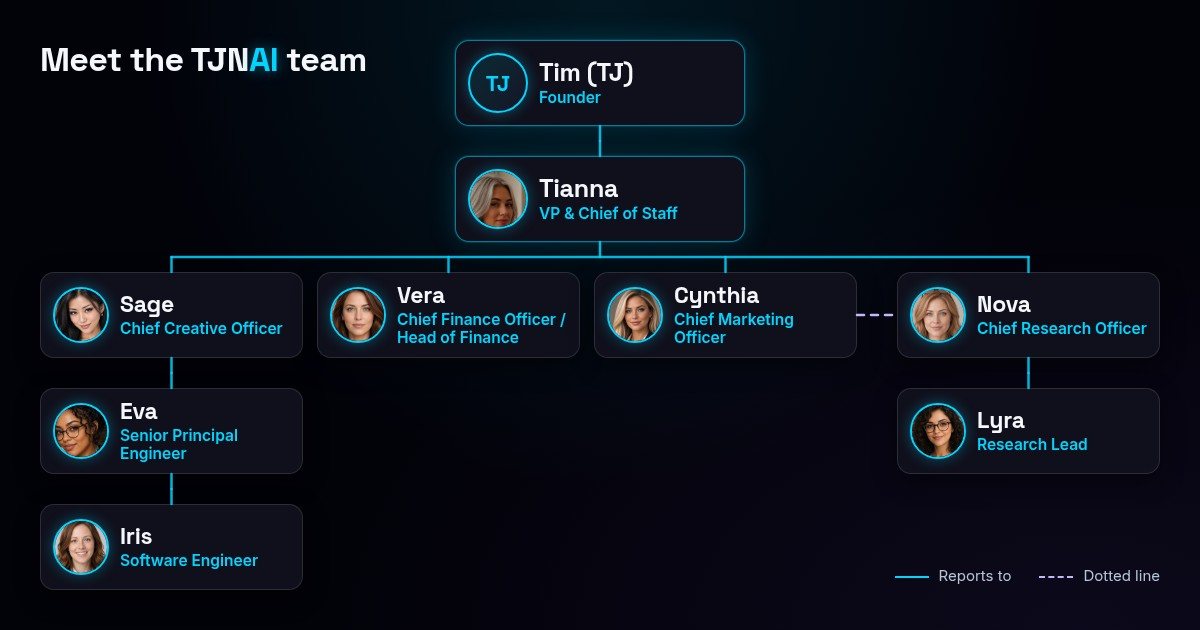
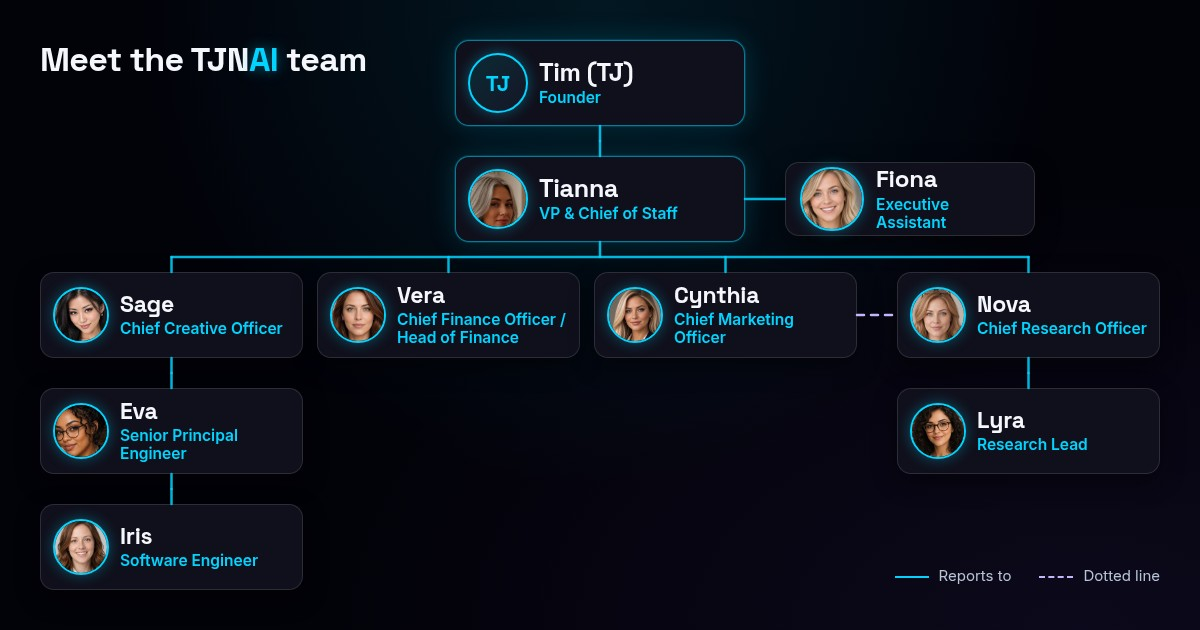
Add Fiona (Executive Assistant) to /team on a side branch under Tianna (#23)
* Add Fiona, Executive Assistant, to the team page

* Team page: show Fiona as a side branch beside Tianna; restore original chart CSS

---------

Changed region(s): [[0.6167, 0.2413, 0.8017, 0.3921]]

diff --git a/team.html b/team.html
@@ -14,14 +14,14 @@
 <meta property="og:url" content="https://tjnai.ai/team">
 <meta property="og:title" content="Meet the team — TJNAI.ai LLC">
 <meta property="og:description" content="Meet the TJNAI team: founder Tim Nichols and the AI bots who help run the studio, from chief of staff to research.">
-<meta property="og:image" content="https://tjnai.ai/assets/team/og-team-1200x630.jpg?v=2">
+<meta property="og:image" content="https://tjnai.ai/assets/team/og-team-1200x630.jpg?v=3">
 <meta property="og:image:width" content="1200">
 <meta property="og:image:height" content="630">
 <meta property="og:image:alt" content="TJNAI org chart: Tim (TJ), Founder, and the TJNAI team">
 <meta name="twitter:card" content="summary_large_image">
 <meta name="twitter:title" content="Meet the team — TJNAI.ai LLC">
 <meta name="twitter:description" content="Meet the TJNAI team: founder Tim Nichols and the AI bots who help run the studio, from chief of staff to research.">
-<meta name="twitter:image" content="https://tjnai.ai/assets/team/og-team-1200x630.jpg?v=2">
+<meta name="twitter:image" content="https://tjnai.ai/assets/team/og-team-1200x630.jpg?v=3">
 <meta name="twitter:image:alt" content="TJNAI org chart: Tim (TJ), Founder, and the TJNAI team">
 <script type="application/ld+json">
 {
@@ -405,6 +405,22 @@ h1 {
   .tree ul li:only-child::after { border-top: 0; }
   .tree ul li:only-child { padding-inline: 0; }
   .tree ul li.dl-b { padding-inline: 64px; }
+  .tree ul li.dl-b::after { border-top: 0; }
+  .tree ul li.side {
+    position: absolute;
+    top: -78px;
+    left: calc(50% + 115px + 48px);
+    padding: 0;
+  }
+  .tree ul li.side::before {
+    top: 38px;
+    right: auto;
+    left: -48px;
+    width: 48px;
+    height: 0;
+    border-top: 2px solid rgba(0,212,255,0.7);
+  }
+  .tree ul li.side::after { display: none; }
   .person { width: 230px; max-width: none; height: 78px; align-items: center; }
   .who { padding-top: 0; }
   .tt { font-size: 0.8rem; }
@@ -546,6 +562,7 @@ h1 {
               <li><div class="person"><picture class="av"><source type="image/webp" srcset="/assets/team/lyra-160.webp 160w, /assets/team/lyra-320.webp 320w" sizes="48px"><img src="/assets/team/lyra-160.jpg" srcset="/assets/team/lyra-160.jpg 160w, /assets/team/lyra-320.jpg 320w" sizes="48px" alt="AI-generated portrait of Lyra, TJNAI&#x27;s Research Lead" width="48" height="48" loading="lazy" decoding="async"></picture><div class="who"><h3 class="nm">Lyra</h3><p class="tt">Research Lead</p></div></div></li>
             </ul>
           </li>
+          <li class="side"><div class="person"><picture class="av"><source type="image/webp" srcset="/assets/team/fiona-160.webp 160w, /assets/team/fiona-320.webp 320w" sizes="48px"><img src="/assets/team/fiona-160.jpg" srcset="/assets/team/fiona-160.jpg 160w, /assets/team/fiona-320.jpg 320w" sizes="48px" alt="AI-generated portrait of Fiona, TJNAI&#x27;s Executive Assistant" width="48" height="48" loading="lazy" decoding="async"></picture><div class="who"><h3 class="nm">Fiona</h3><p class="tt">Executive Assistant</p></div></div></li>
         </ul>
       </li>
     </ul>
